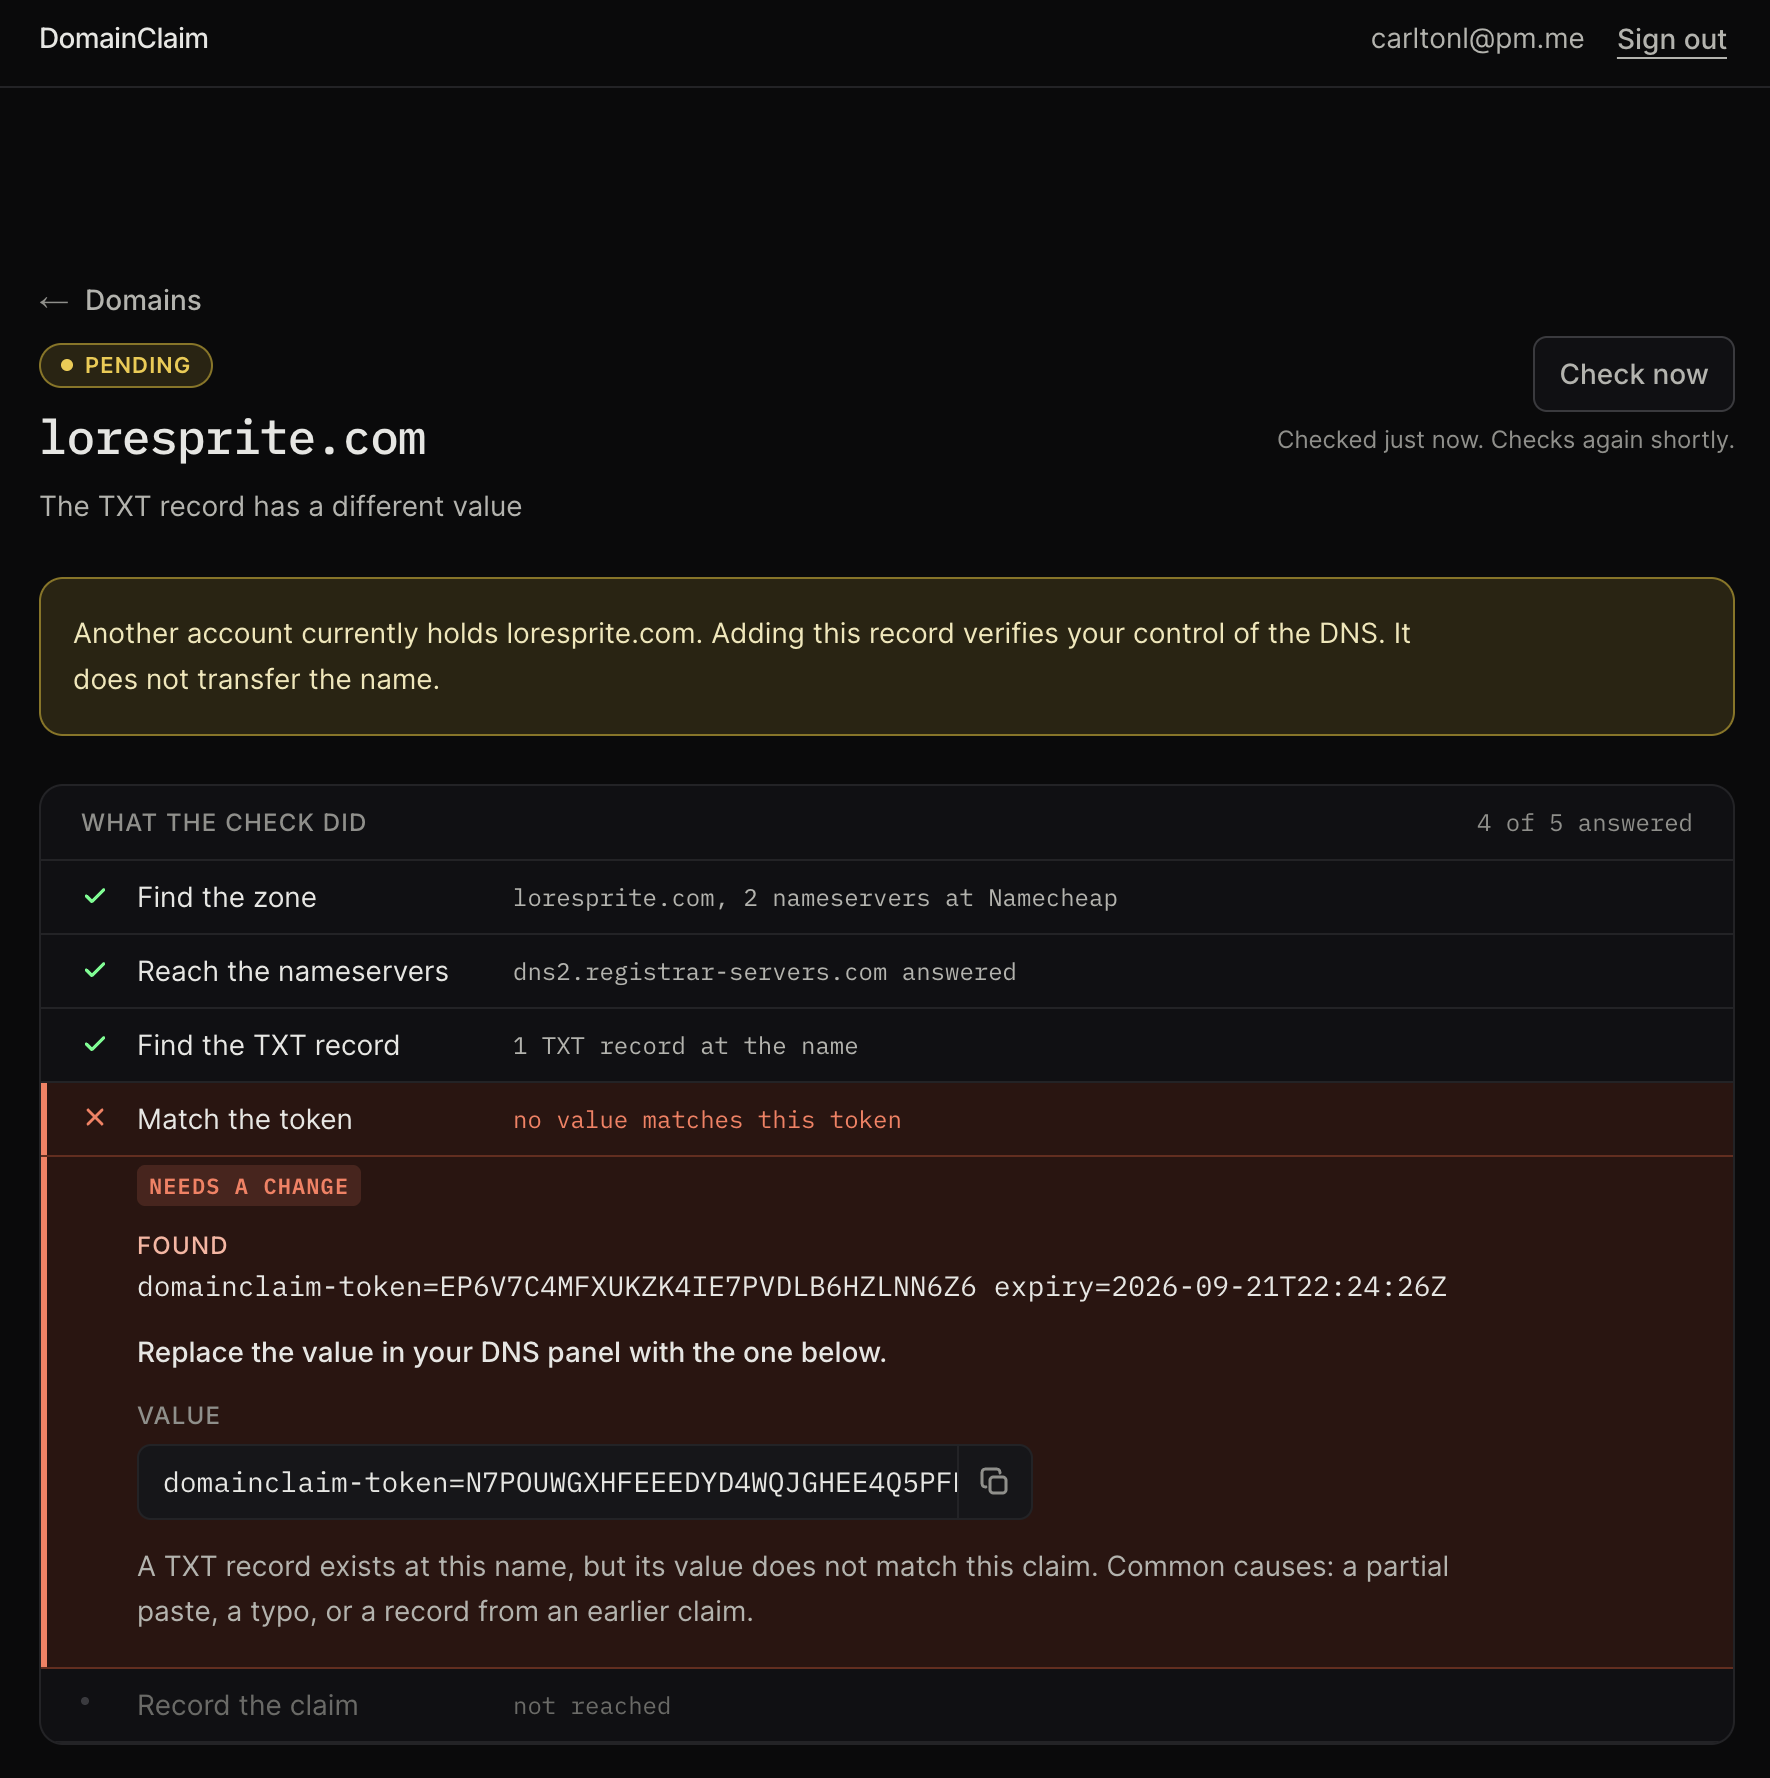
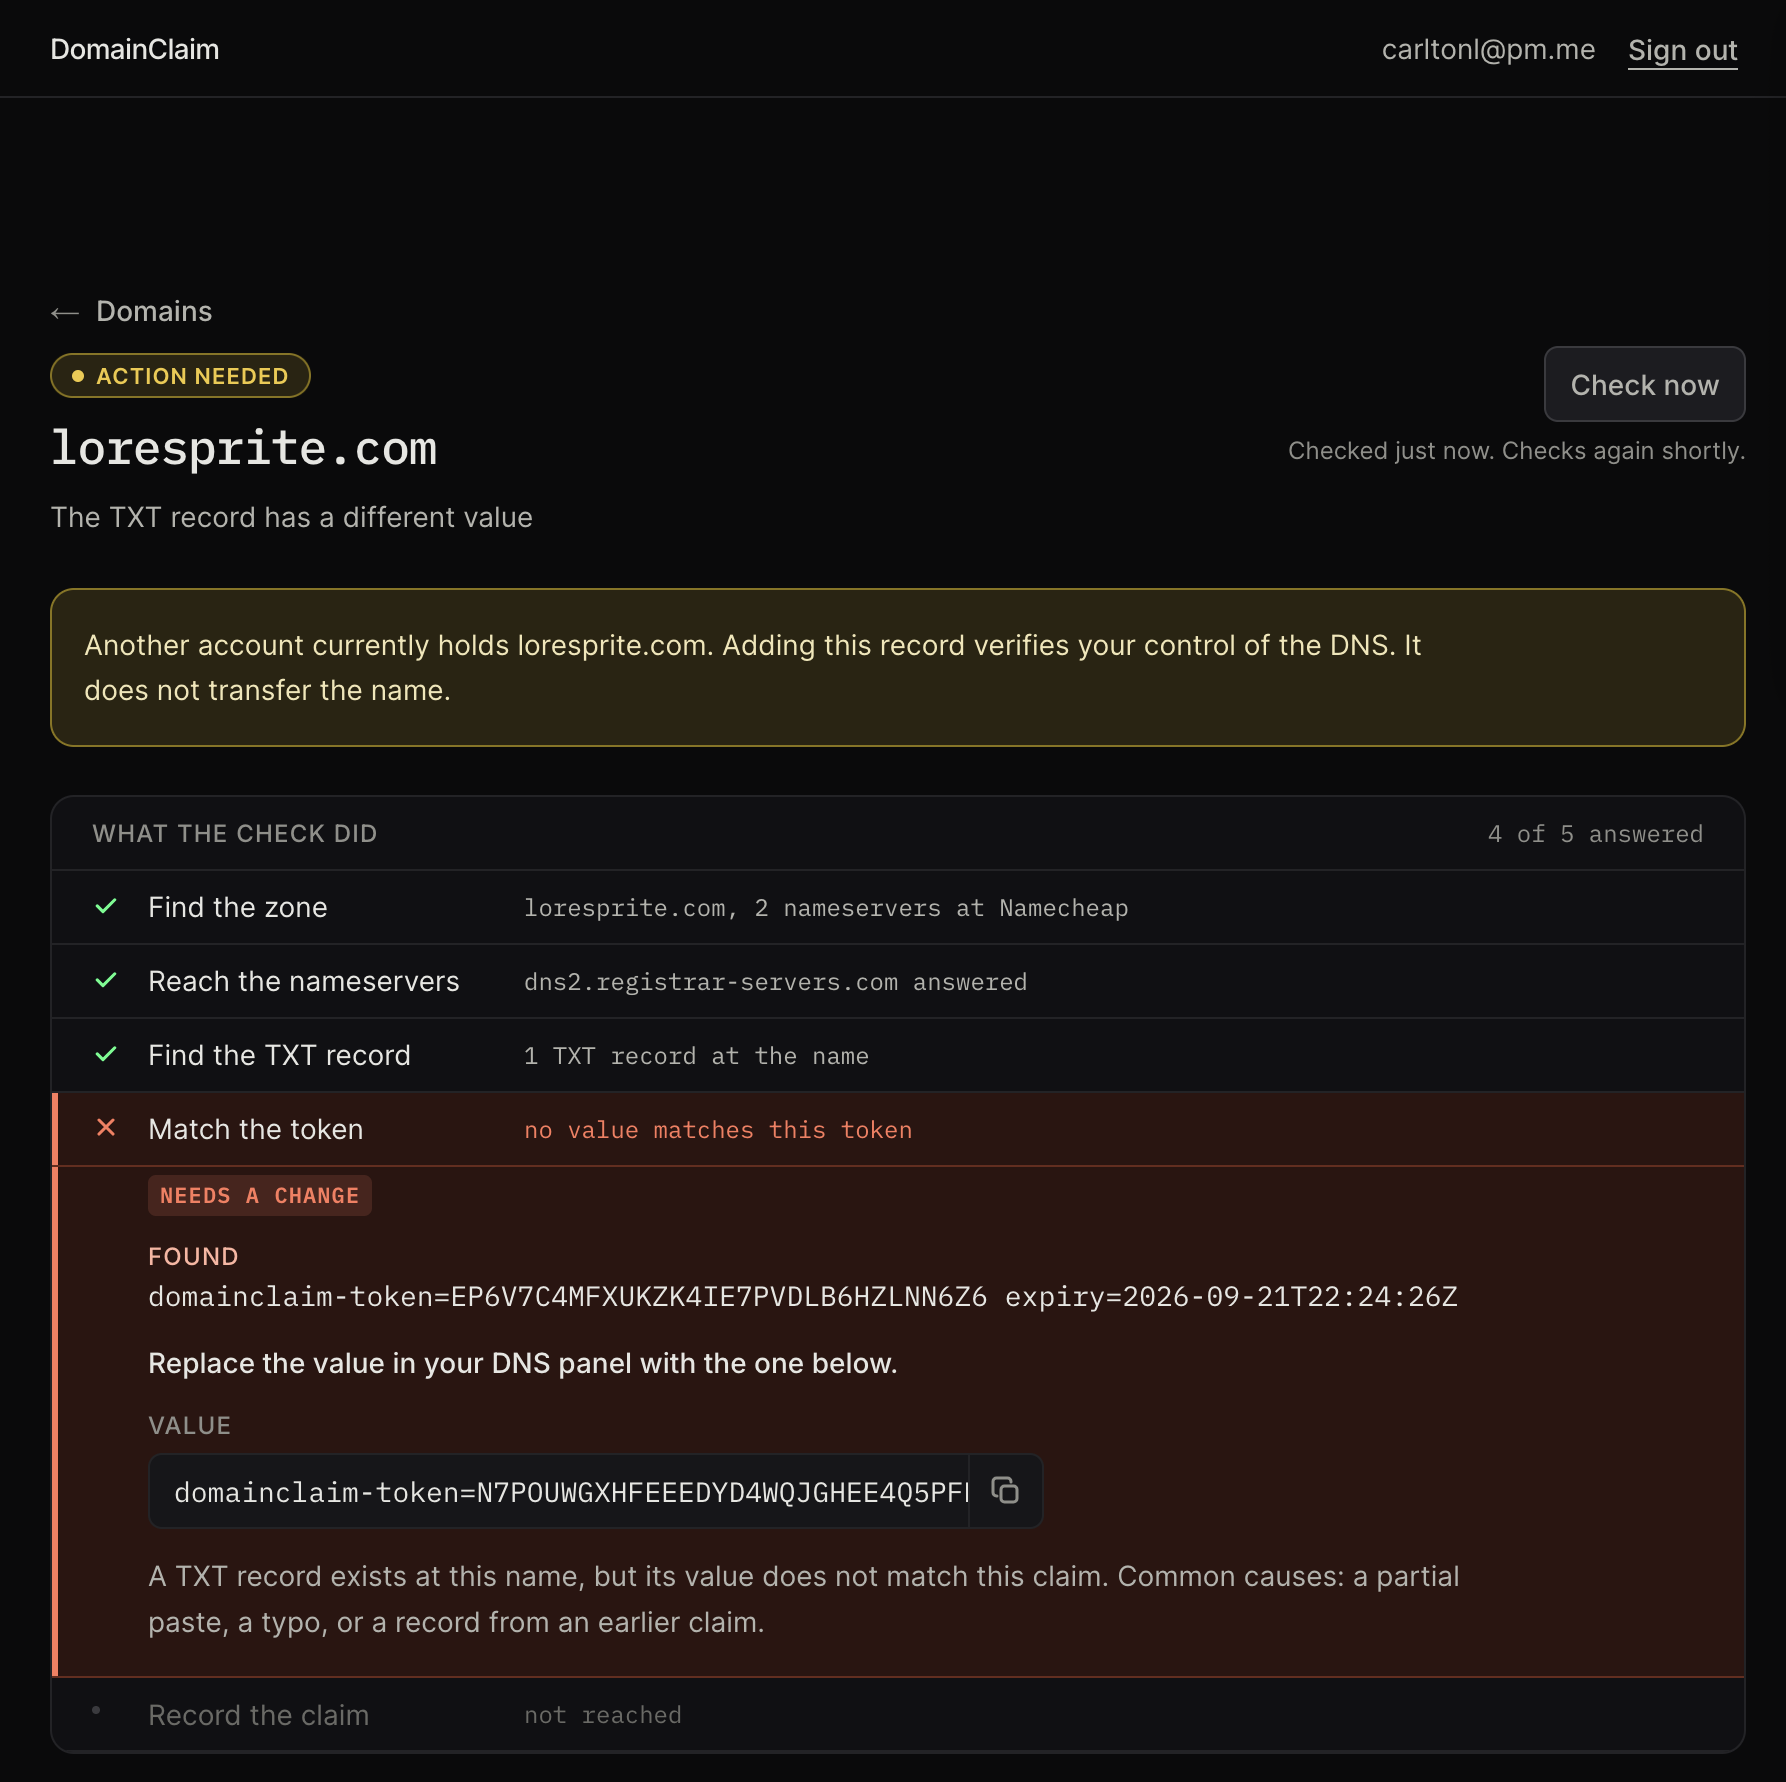
docs: update the README screenshot to show the Action needed state

diff --git a/README.md b/README.md
@@ -11,7 +11,7 @@ a schedule, for the reason in the RFC.
 Live at [domainclaim-pi.vercel.app](https://domainclaim-pi.vercel.app). Take-home for Resend.
 Decisions are in [docs/RFC.md](docs/RFC.md).
 
-![The record screen for a pending claim on loresprite.com: the check shown as five steps, stopped at Match the token because a TXT record with a different value is present, showing what was found, the value to use, and one next action, with a notice that another account currently holds the name](docs/images/check-failing.png)
+![The record screen for loresprite.com in the Action needed state: the check shown as five steps, stopped at Match the token because a TXT record with a different value is present, showing what was found, the value to use, and one next action, with a notice that another account currently holds the name and that adding the record proves control of the DNS without transferring it](docs/images/check-failing.png)
 
 ## Try it
 
